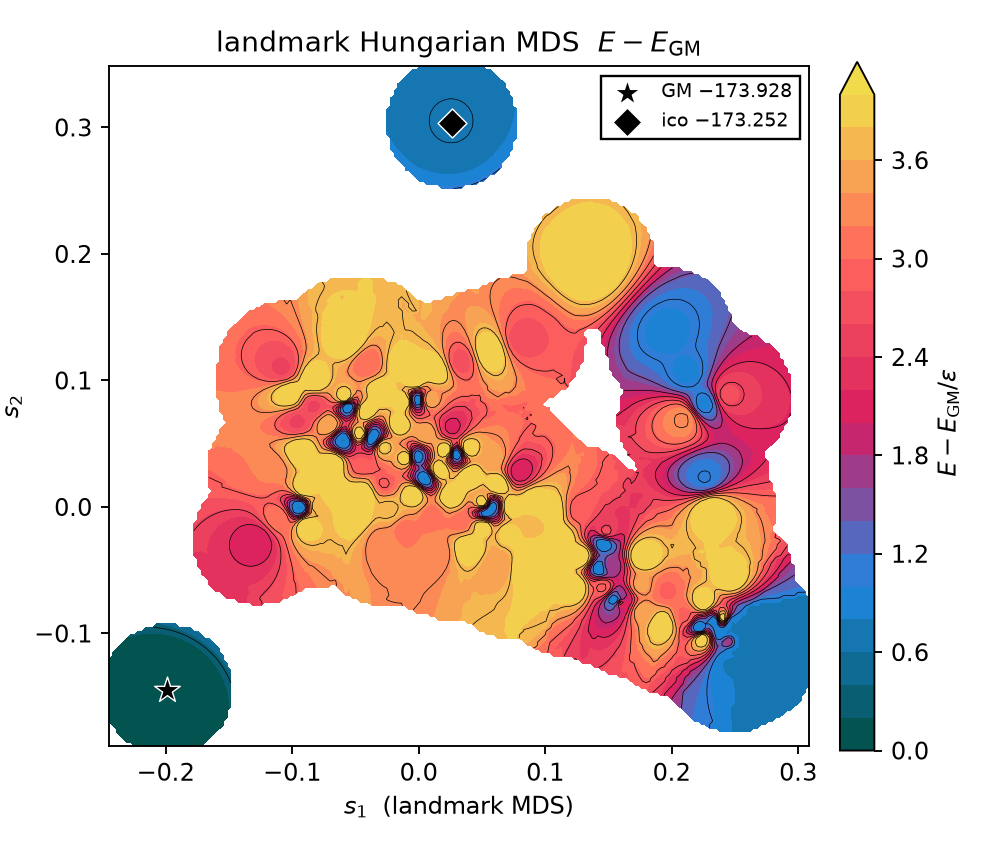
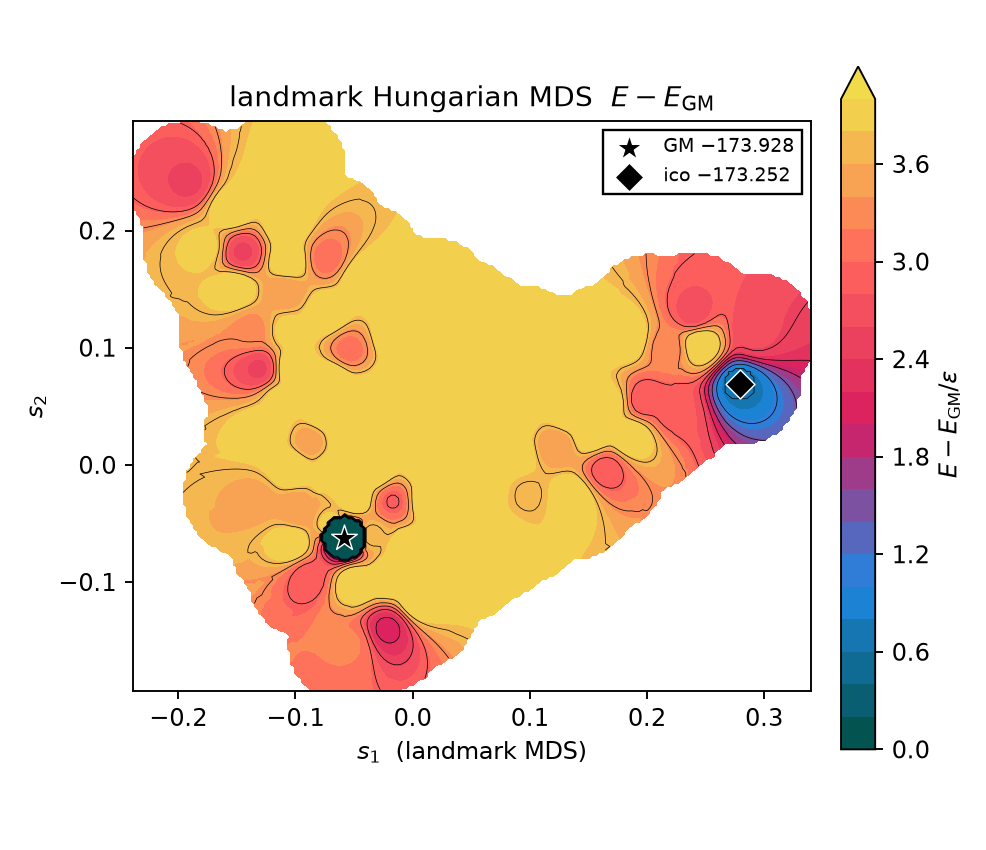
feat: two-well energy IDW on unique-landmark Hungarian MDS
Collapse D=0 cliques before Torgerson so GM sits in the cloud, then
paint E-E_GM with basin-limited inducing IDW (no occupancy invert).

diff --git a/scripts/occ_book_hungarian_mds.py b/scripts/occ_book_hungarian_mds.py
@@ -3,13 +3,17 @@
 
 The labelled (d_GM, d_ico) plane is elja_occ_lj38_hungarian.png: GM is
 a satellite by construction. This script fills the unsupervised
-landmark MDS of the landmark-landmark Hungarian matrix D_ll.
+landmark MDS of D_ll.
 
-mds.xy is reused when present. Otherwise Torgerson of D_ll.dist plus
-Nyström from (d_GM, d_ico) if that plane exists.
+Embedding: Torgerson of unique D=0 cliques in D_ll (40 GM copies and
+17 ico copies collapse to two sites). If mds_unique.xy is absent it is
+computed from D_ll.dist + landmarks.idx, with Nyström of the rest from
+the (d_GM, d_ico) plane. Cached mds.xy (the copy-inflated satellite
+map) is only a fallback.
 
-The painted field is E - E_GM (IDW, no leftover occupancy). Candidate
-fills are scored for two basins, GM in a well, and connectivity.
+The painted field is E - E_GM (inducing-point IDW, no leftover
+occupancy). Candidate fills are scored for two basins, GM in a well,
+and a connected support.
 """
 
 from __future__ import annotations
@@ -23,7 +27,6 @@ import matplotlib
 matplotlib.use("Agg")
 import matplotlib.pyplot as plt
 import numpy as np
-from matplotlib.colors import LinearSegmentedColormap
 
 SCRIPTS = Path(__file__).resolve().parent
 sys.path.insert(0, str(SCRIPTS))
@@ -97,13 +100,33 @@ def farthest_indices(xy: np.ndarray, k: int, must) -> np.ndarray:
     return np.unique(np.asarray(chosen, dtype=int))
 
 
-def inducing(xy: np.ndarray, z: np.ndarray, n_ind: int = 110, n_low: int = 50):
-    pts, val = unique_lowest(xy, z)
+def basin_indices(pts: np.ndarray, val: np.ndarray, n_keep: int = 4, min_sep: float = 0.06, emax: float = 1.4):
+    """Deepest spatially separated minima (GM / ico plus at most a couple more)."""
     order = np.argsort(val)
-    low = order[: min(n_low, len(order))]
+    kept = []
+    for i in order:
+        if float(val[i]) > emax and kept:
+            break
+        if all(np.linalg.norm(pts[i] - pts[j]) > min_sep for j in kept):
+            kept.append(int(i))
+        if len(kept) >= n_keep:
+            break
+    return np.asarray(kept, dtype=int)
+
+
+def inducing(xy: np.ndarray, z: np.ndarray, n_ind: int = 90, n_low: int = 4, min_sep: float = 0.06):
+    pts, val = unique_lowest(xy, z)
     loc_gm = int(np.argmin(np.linalg.norm(pts - xy[GM], axis=1)))
     loc_ico = int(np.argmin(np.linalg.norm(pts - xy[ICO], axis=1)))
-    cover = farthest_indices(pts, min(n_ind, len(pts)), [loc_gm, loc_ico])
+    low = basin_indices(pts, val, n_keep=n_low, min_sep=min_sep)
+    # farthest cover of the high-E cloud only, so cover sites cannot mint wells
+    high = np.flatnonzero(val >= 1.6)
+    if len(high) >= 8:
+        seed = [0]
+        cover_h = farthest_indices(pts[high], min(n_ind, len(high)), seed)
+        cover = high[cover_h]
+    else:
+        cover = farthest_indices(pts, min(n_ind, len(pts)), [loc_gm, loc_ico])
     idx = np.unique(np.concatenate([cover, low, np.array([loc_gm, loc_ico])]))
     return pts[idx], np.clip(val[idx], 0.0, EMAX)
 
@@ -133,13 +156,14 @@ def energy_idw(
     pad=0.10,
     cutoff=None,
     pin=None,
-    n_ind: int = 110,
-    n_low: int = 50,
+    n_ind: int = 90,
+    n_low: int = 4,
+    min_sep: float = 0.06,
 ):
     """Inducing-point IDW of E-E_GM. Disk support, wells pinned."""
     finite = np.isfinite(xy).all(1)
     xy_f, z_f = xy[finite], z[finite]
-    pts, val = inducing(xy_f, z_f, n_ind=n_ind, n_low=n_low)
+    pts, val = inducing(xy_f, z_f, n_ind=n_ind, n_low=n_low, min_sep=min_sep)
     xmin, xmax = float(xy_f[:, 0].min()), float(xy_f[:, 0].max())
     ymin, ymax = float(xy_f[:, 1].min()), float(xy_f[:, 1].max())
     dx, dy = max(xmax - xmin, 1e-6), max(ymax - ymin, 1e-6)
@@ -173,7 +197,8 @@ def energy_idw(
     if pin:
         for pt, ev in pin:
             r2 = (xx - pt[0]) ** 2 + (yy - pt[1]) ** 2
-            near = r2 <= (0.018 * span) ** 2
+            rad = 0.038 * span if ev < 0.15 else 0.030 * span
+            near = r2 <= rad * rad
             field = np.where(near, float(ev), field)
     return gx, gy, field, float(cutoff)
 
@@ -546,13 +571,9 @@ def main() -> None:
     print("median nn", med_nn, "0.07*span", 0.07 * span)
 
     trials = [
-        ("ind_k6_p4_auto", dict(k=6, power=4.0, cutoff=None, n_ind=110, n_low=50)),
-        ("ind_k6_p4_s09", dict(k=6, power=4.0, cutoff=0.09 * span, n_ind=110, n_low=50)),
-        ("ind_k6_p4_s11", dict(k=6, power=4.0, cutoff=0.11 * span, n_ind=110, n_low=50)),
-        ("ind_k6_p4_s13", dict(k=6, power=4.0, cutoff=0.13 * span, n_ind=120, n_low=60)),
-        ("ind_k8_p4_s11", dict(k=8, power=4.0, cutoff=0.11 * span, n_ind=96, n_low=40)),
-        ("ind_k6_p4_s11_dense", dict(k=6, power=4.0, cutoff=0.11 * span, n_ind=160, n_low=80)),
-        ("ind_k6_p3_s11", dict(k=6, power=3.0, cutoff=0.11 * span, n_ind=110, n_low=50)),
+        ("ind_k6_p4_b2", dict(k=6, power=4.0, cutoff=0.11 * span, n_ind=80, n_low=2)),
+        ("ind_k6_p4_b3", dict(k=6, power=4.0, cutoff=0.10 * span, n_ind=90, n_low=3)),
+        ("ind_k6_p4_b2_auto", dict(k=6, power=4.0, cutoff=None, n_ind=80, n_low=2)),
     ]
 
     scores = []

diff --git a/scripts/occ_book_hungarian.py b/scripts/occ_book_hungarian.py
@@ -12,6 +12,9 @@ does the cheap Cameron plane and a landmark Nyström instead:
   landmarks     lowest 100 E plus 100 random, Hungarian among them,
                 Torgerson MDS, Nyström / IDW of the rest.
 
+The MDS energy fill is occ_book_hungarian_mds.py (unique-landmark
+Torgerson of D_ll). This script paints the labelled (d_GM, d_ico) plane.
+
 The (d_GM, d_ico) plane is the structure-space committor analogue.
 Energy is an IDW (p=4) interpolant of E - E_GM, pinned at the two
 wells (no leftover occupancy).
@@ -602,23 +605,8 @@ def main() -> None:
     plt.close(fig)
     print("wrote", FIG)
 
-    # landmark MDS energy fill as a companion in DEST only
-    gx2, gy2, zg2, xx2, yy2, gp2_gm, gp2_ico, _, _ = energy_grid(
-        nyst, energy, gm_idx, ico_idx
-    )
-    fig, ax = plt.subplots(figsize=(5.8, 5.0), facecolor="white")
-    mesh = paint_energy(ax, xx2, yy2, zg2)
-    mark(ax, nyst[gm_idx], nyst[ico_idx])
-    ax.set_xlabel(r"$s_1$  (landmark MDS)")
-    ax.set_ylabel(r"$s_2$")
-    ax.set_aspect("equal", adjustable="box")
-    ax.set_title(r"landmark Hungarian MDS  $E-E_{\mathrm{GM}}$")
-    fig.colorbar(mesh, ax=ax, fraction=0.046, pad=0.04).set_label(
-        r"$E-E_{\mathrm{GM}}/\varepsilon$"
-    )
-    fig.tight_layout()
-    fig.savefig(DEST / "elja_occ_lj38_hungarian_mds.png", dpi=170, facecolor="white")
-    plt.close(fig)
+    # MDS energy fill lives in occ_book_hungarian_mds.py (unique-landmark
+    # Torgerson of D_ll). Do not clobber that figure from the labelled plane.
 
     scores = {
         "n": int(n),
@@ -631,8 +619,8 @@ def main() -> None:
         "well_depth_ico": well_ico,
         "gp_at_GM": gp_gm,
         "gp_at_ico": gp_ico,
-        "gp_mds_at_GM": gp2_gm,
-        "gp_mds_at_ico": gp2_ico,
+        "gp_mds_at_GM": None,
+        "gp_mds_at_ico": None,
         "D_GM_ico": d_cross,
         "d_GM": {
             "gm": float(d_gm[gm_idx]),
